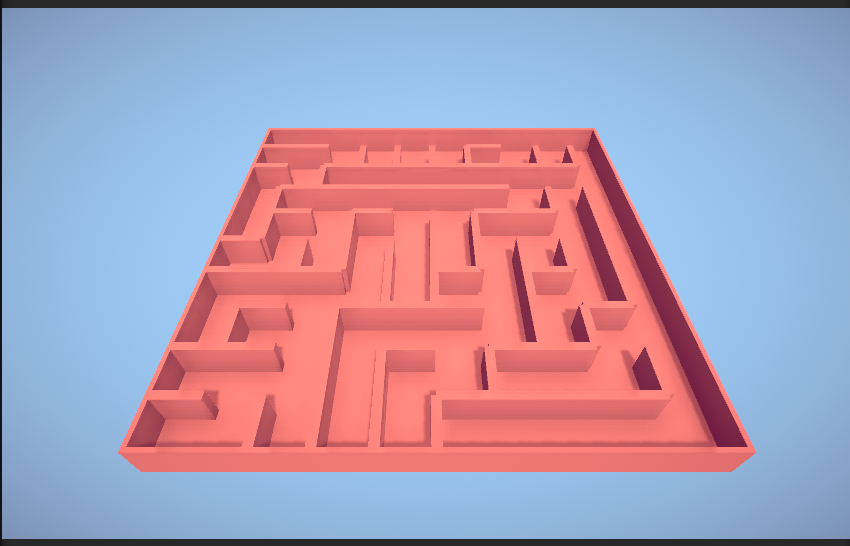
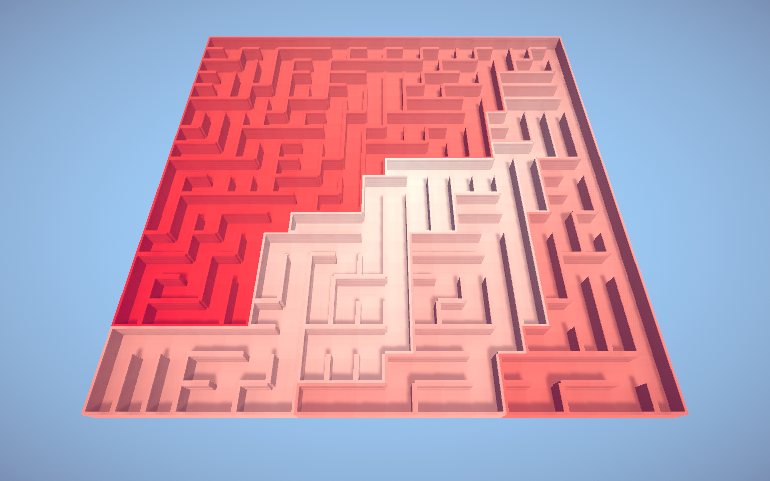
Updated all the screenshots

diff --git a/Assets/Scripts/ScreenCaptureTool.cs b/Assets/Scripts/ScreenCaptureTool.cs
@@ -1,0 +1,13 @@
+using UnityEngine;
+
+public class ScreenCaptureTool : MonoBehaviour
+{
+    [SerializeField] string filename;
+    void Update()
+    {
+        if (Input.GetKeyDown(KeyCode.P))
+        {
+            ScreenCapture.CaptureScreenshot($"{filename}.png");
+        }
+    }
+}

diff --git a/README.md b/README.md
@@ -9,3 +9,9 @@ C# Maze Generation algorithms in Unity. Based on the book Mazes for Programmers.
 
 ## AldousBroder Maze
 ![AldousBroder Maze Example](https://github.com/bzgeb/UnityMazes/blob/main/AldousBroder.png)
+
+## Wilson's Maze
+![Wilson's Maze Example](https://github.com/bzgeb/UnityMazes/blob/main/Wilsons.png)
+
+## Hunt and Kill Maze
+![Hunt and Kill Maze Example](https://github.com/bzgeb/UnityMazes/blob/main/HuntAndKill.png)
